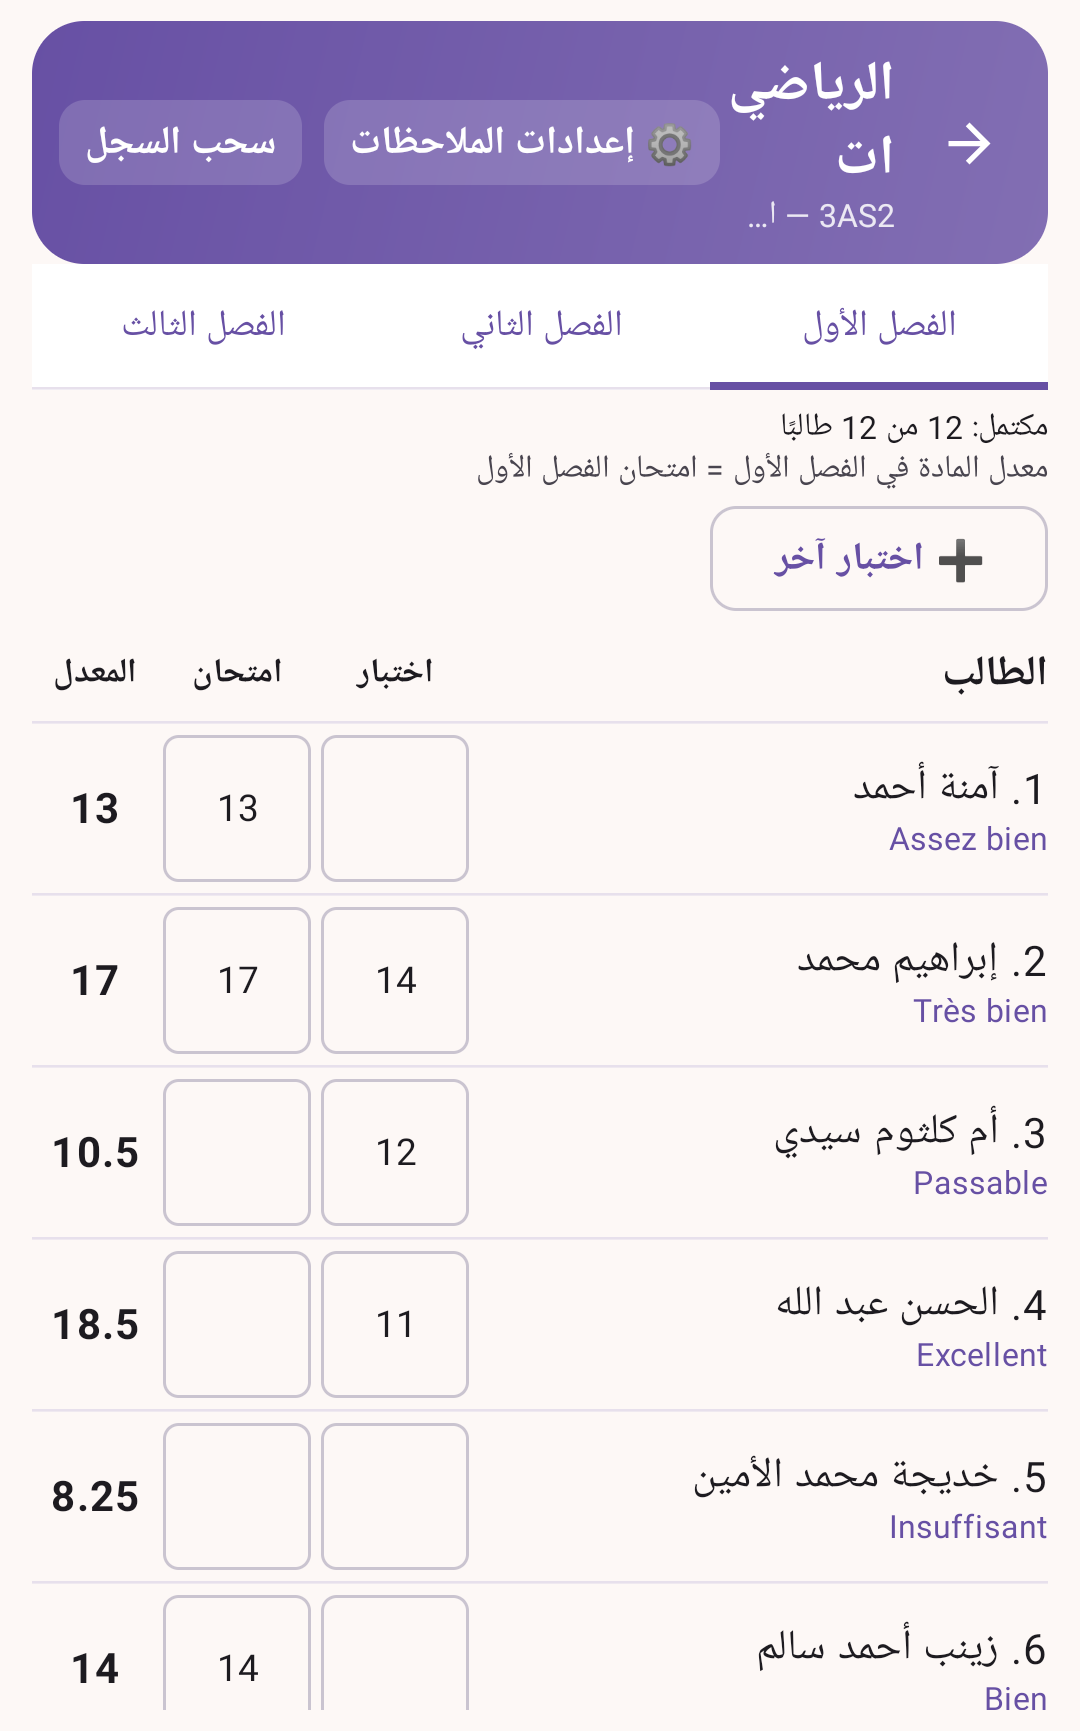
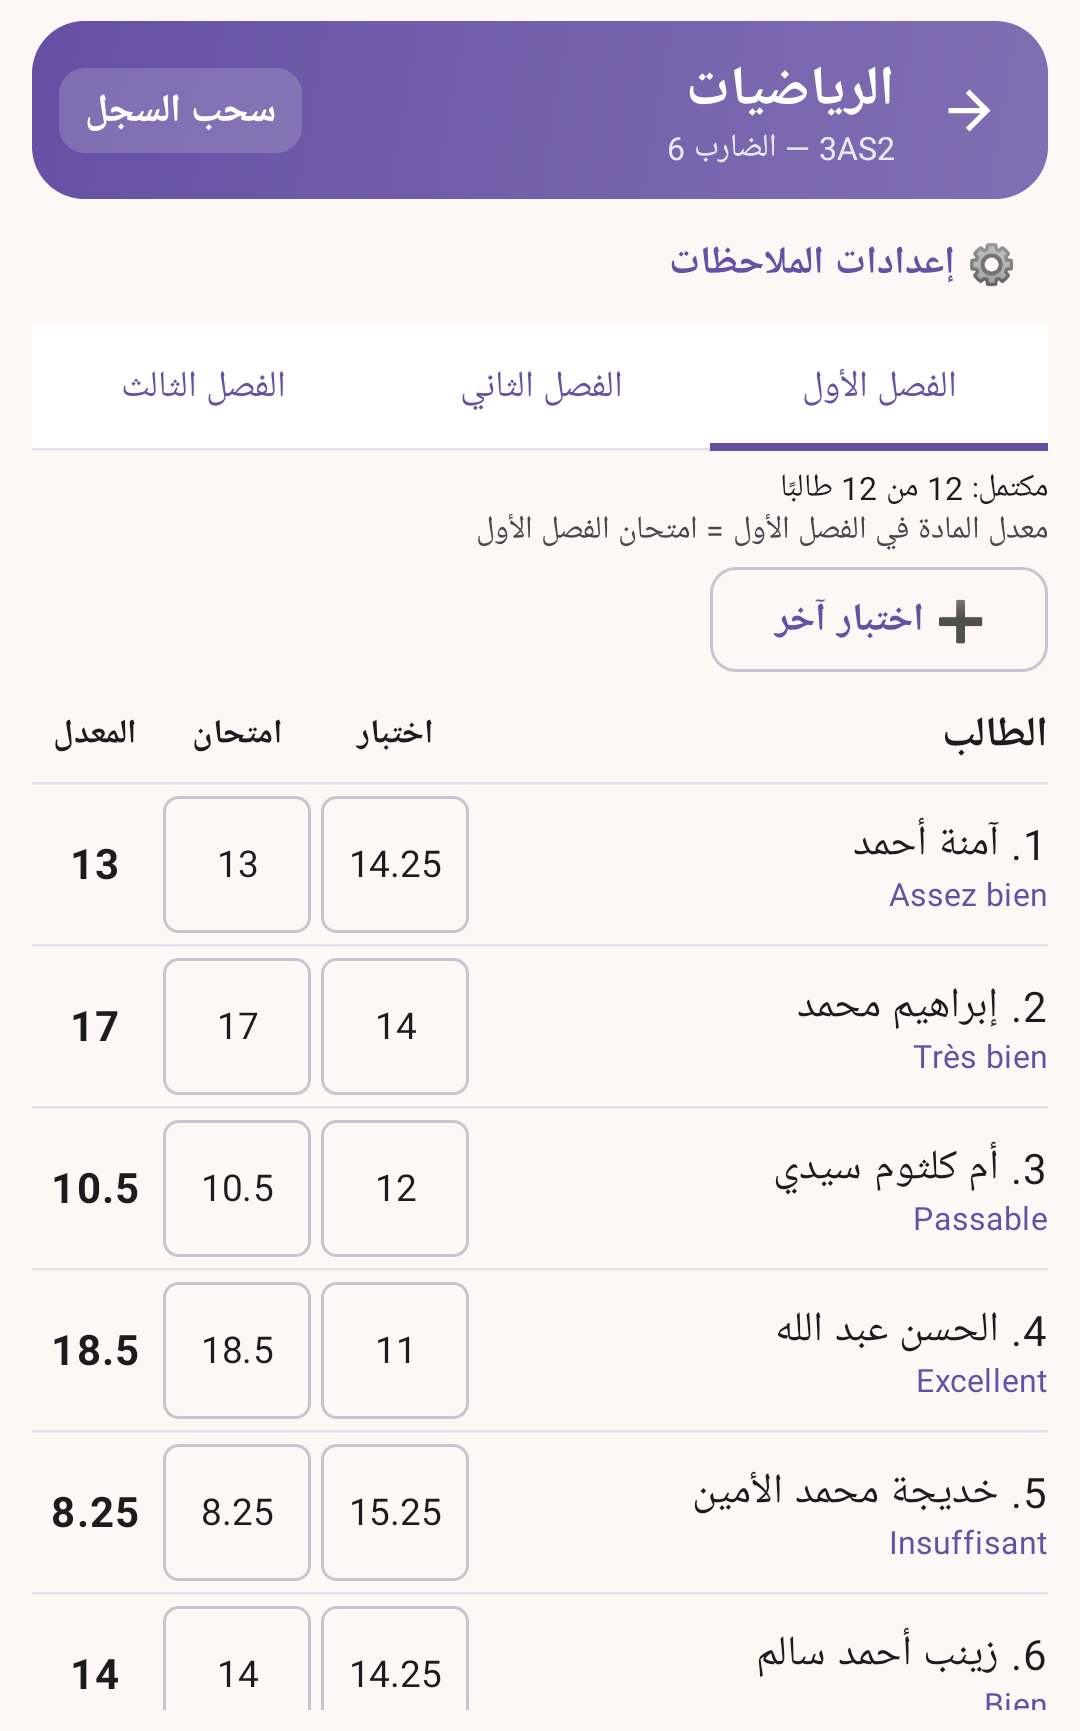
لقطة سجل الرياضيات: نقاط الرياضيات فقط (كما يمرّرها التطبيق)
Claude-Session: https://claude.ai/code/session_01RHaEyUukSHoYM8miwatJPq

diff --git a/app/src/androidTest/java/com/elyedali/daftarustadh/StoreScreens.kt b/app/src/androidTest/java/com/elyedali/daftarustadh/StoreScreens.kt
@@ -80,7 +80,7 @@ class StoreScreens {
     }
 
     @Test fun s3_grades() = shoot("3-grades") {
-        GradesScreen(schoolClass = cls, subject = subjects.first { it.code == "MATS" }, students = students, grades = grades(true),
+        GradesScreen(schoolClass = cls, subject = subjects.first { it.code == "MATS" }, students = students, grades = grades(true).filter { it.subjectCode == "MATS" },
             testsMode = TestsMode.AVERAGE, scale = RemarkScale.DEFAULT, onSetGrade = { _, _, _, _ -> }, onTestsMode = {}, onPrintRecord = {}, onBack = {})
     }
 
